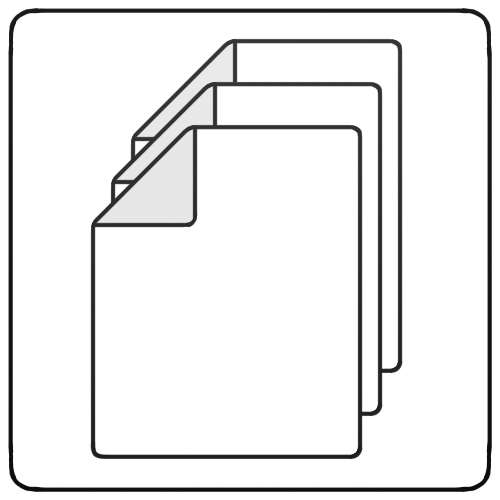
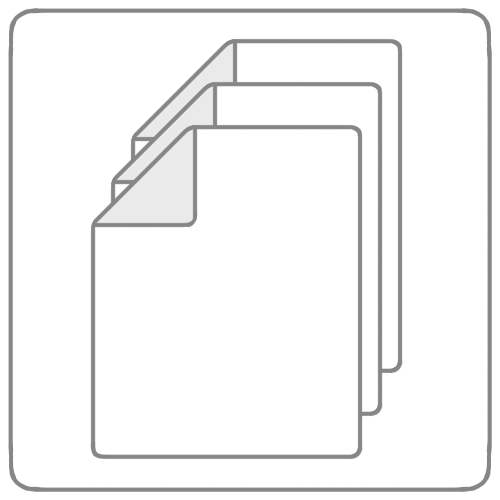
Adding back level when possible
Added back level when possible to be able to return to the
parent level directly.

Changed region(s): [[0.18, 0.06, 0.81, 0.93], [0.03, 0.03, 0.99, 0.99], [0.0, 0.0, 0.96, 0.96]]

diff --git a/CryptoForestApp/Presentation/Pages/CryptoForestModel.cs b/CryptoForestApp/Presentation/Pages/CryptoForestModel.cs
@@ -42,9 +42,15 @@ internal partial record CryptoForestModel
         SelectedEntry = State.Value(this, () =>
             new Dictionary<string, ItemConfig>()
             {
-                { string.Empty, new ItemConfig(Guid.Empty, new KeyIV([], []), ItemType.Level) }
+                { string.Empty, new ItemConfig(Guid.Empty, KeyIV.Empty, ItemType.Level) }
             }.FirstOrDefault());
-        Entries = ListState.Value<CryptoForestModel, KeyValuePair<string, ItemConfig>>(this, () => [.. _currentLevel.GetLevels(), .. _currentLevel.GetItems()]);
+        var backEntry = new Dictionary<string, ItemConfig>();
+        if (_currentLevel.EntryGuid != _cryptoForest.GetBaseLevel().EntryGuid && _levelHistory[_index - 1].SearchQuery == string.Empty)
+        {
+            backEntry.Add("..", new ItemConfig(Guid.Empty, KeyIV.Empty, ItemType.Level));
+        }
+
+        Entries = ListState.Value<CryptoForestModel, KeyValuePair<string, ItemConfig>>(this, () => [.. backEntry, .. _currentLevel.GetLevels(), .. _currentLevel.GetItems()]);
     }
 
     public async Task GoBackAsync(CancellationToken cancellationToken)
@@ -82,10 +88,19 @@ internal partial record CryptoForestModel
 
     public async Task OpenAsync(CancellationToken cancellationToken)
     {
-        var selectedEntry = await SelectedEntry.Value(cancellationToken);
+        var selectedEntry = await SelectedEntry.Value(cancellationToken);        
         if (selectedEntry.Value.ItemType == ItemType.Level)
         {
-            await AddToHistoryAsync((LevelConfig)selectedEntry.Value, searchQuery: string.Empty, cancellationToken);
+            if (selectedEntry.Value.EntryGuid == Guid.Empty)
+            {
+                var parentLevel = _cryptoForest.GetBaseLevel().GetLevelOfLevel(_currentLevel.EntryGuid);
+                await AddToHistoryAsync(parentLevel, searchQuery: string.Empty, cancellationToken);
+            }
+            else
+            {
+                await AddToHistoryAsync((LevelConfig)selectedEntry.Value, searchQuery: string.Empty, cancellationToken);
+            }
+
             await IsBackPossible.UpdateAsync(_ => true, cancellationToken);
             await IsForwardPossible.UpdateAsync(_ => false, cancellationToken);
             await SearchQuery.UpdateAsync(_ => string.Empty, cancellationToken);
@@ -254,7 +269,13 @@ internal partial record CryptoForestModel
         var levelHistory = _levelHistory[_index];
         if (string.IsNullOrEmpty(levelHistory.SearchQuery))
         {
-            await Entries.UpdateAsync(_ => [.. _currentLevel.GetLevels(), .. _currentLevel.GetItems()], cancellationToken);
+            var backEntry = new Dictionary<string, ItemConfig>();
+            if (_currentLevel.EntryGuid != _cryptoForest.GetBaseLevel().EntryGuid)
+            {
+                backEntry.Add("..", new ItemConfig(Guid.Empty, KeyIV.Empty, ItemType.Level));
+            }
+
+            await Entries.UpdateAsync(_ => [.. backEntry, .. _currentLevel.GetLevels(), .. _currentLevel.GetItems()], cancellationToken);
         }
         else
         {
